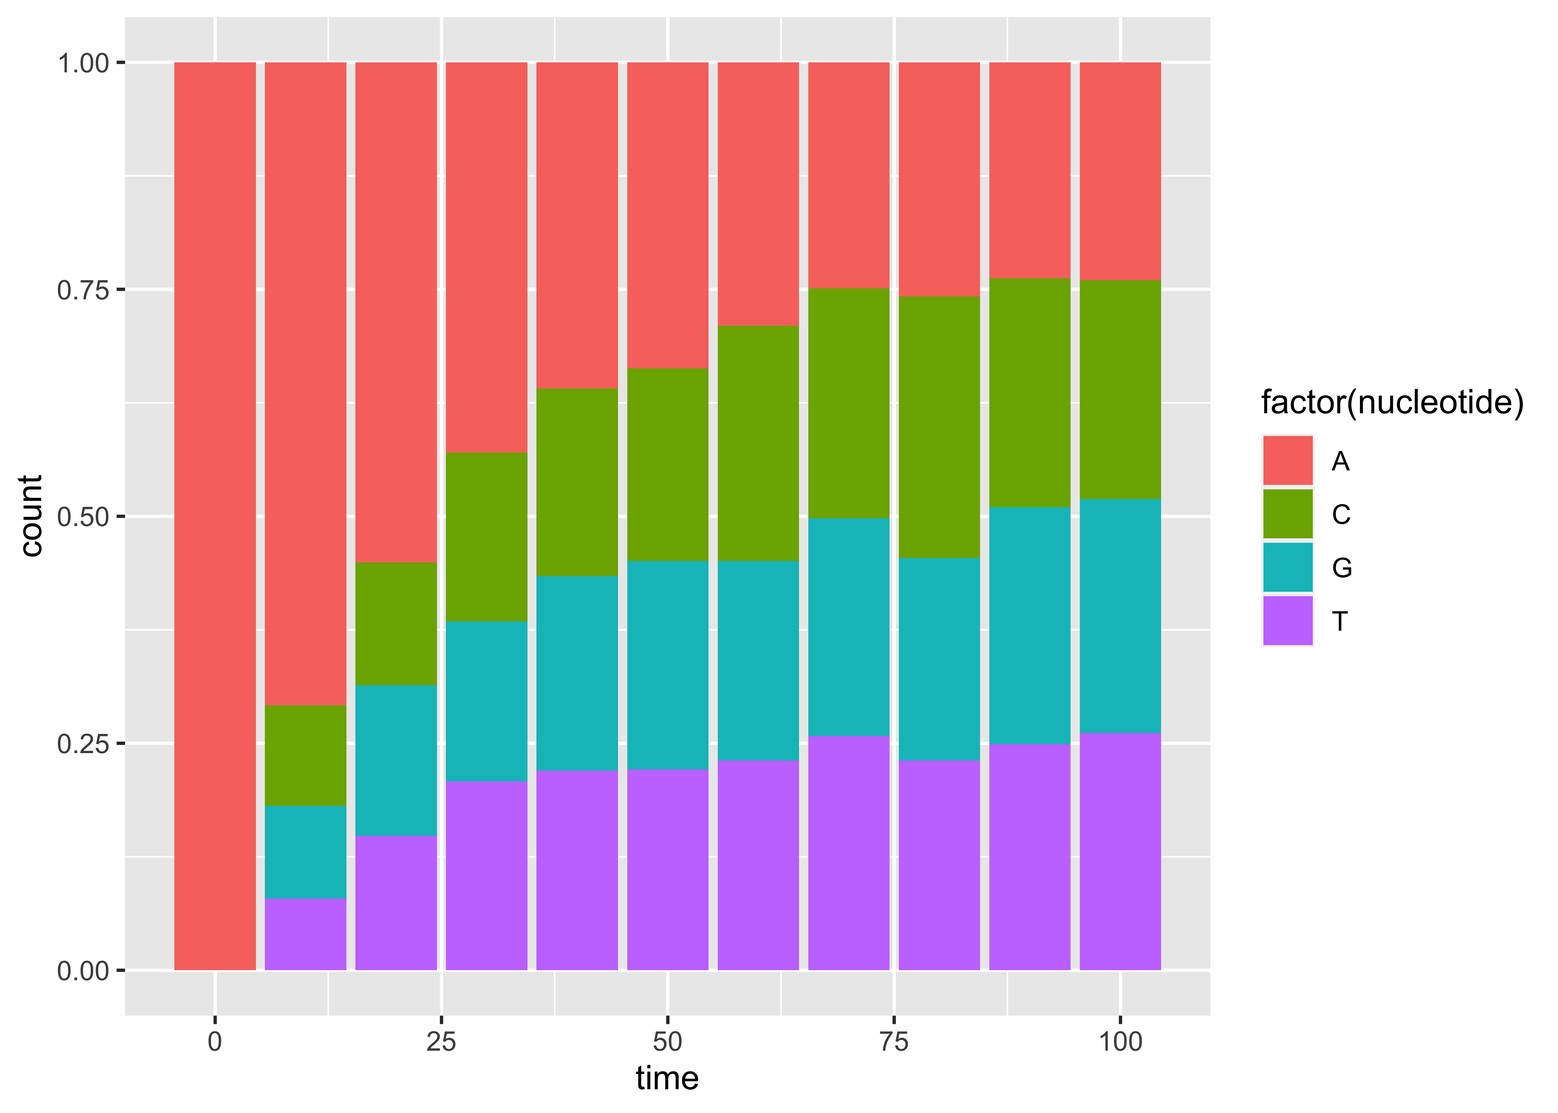
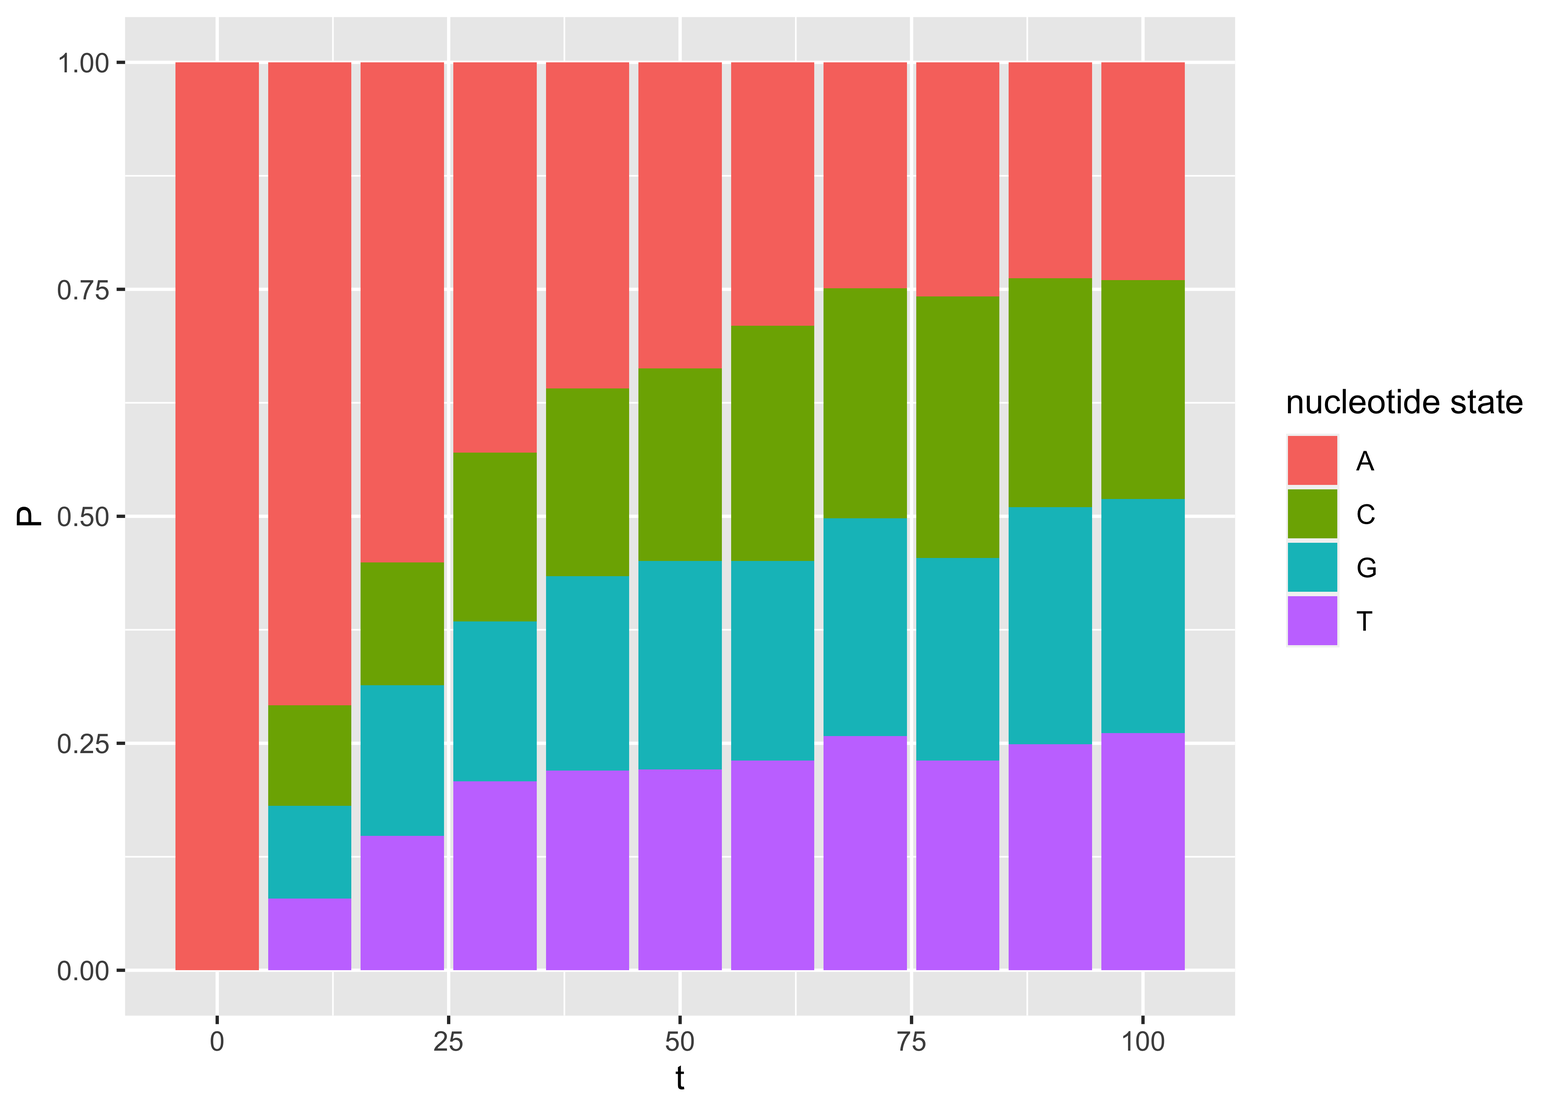
finished pass at simple simulation

diff --git a/docs/simulation.html b/docs/simulation.html
@@ -286,22 +286,22 @@ Figure 3.2: A linear model with <span class="math inline">\(m\)</span>=0.5 and <
 <p>It might seem a bit odd to consider replacement events that don’t result in substitutions, but this follows naturally from a central feature we specified for the the model - the new nucleotide doesn’t depend in any way on what nucleotide was there before. If we had a process where replacements always resulted in substitutions, then excluding the a replacement in kind would require knowing which nucleotide should be placed so that we <em>don’t</em> select it.</p>
 <div id="expected-amount-of-change" class="section level3">
 <h3><span class="header-section-number">3.2.1</span> Expected amount of change</h3>
-<p>One of the primary values of a model is that it allows us to think explicitly about how much evolutionary change we expect to see under the specified process. For the simple process described here, there are two things to consider if we want to know the amount of evolutionary change. The first is the substitution rate <span class="math inline">\(\mu\)</span> (which we also know if we know <span class="math inline">\(\beta\)</span>, since <span class="math inline">\(\mu=4\beta\)</span>), and the time over which the evolutionary process acts.</p>
-<p>In Figure <a href="simulation.html#fig:sim-jc-mu-sweep">3.3</a> the amount of evolutionary time is held constant, and the rate <span class="math inline">\(\mu\)</span> is changed. When <span class="math inline">\(\mu=0\)</span>, the bottom bar, there are no replacements (black bars) and therefore no substitutions (the whole bar is the same color).</p>
+<p>For the simple process described here, there are two things to consider if we want to know the amount of evolutionary change. The first is the substitution rate <span class="math inline">\(\mu\)</span> (which we also know if we know <span class="math inline">\(\beta\)</span>, since <span class="math inline">\(\mu=4\beta\)</span>), and the time over which the evolutionary process acts. In our example here, that time is the length of the edge under consideration in the phylogeny.</p>
+<p>In Figure <a href="simulation.html#fig:sim-jc-mu-sweep">3.3</a> each horizontal bar is a simulation over the same time interval (0-100 time units). Each black line on the bar is a replacement even. We use a different value of <span class="math inline">\(\mu\)</span> for each simulation (as indicated on the vertical axis). When <span class="math inline">\(\mu=0\)</span>, the bottom bar, there are no replacements (black bars) and therefore no substitutions (the whole bar is the same color).</p>
 <div class="figure"><span id="fig:sim-jc-mu-sweep"></span>
-<img src="phylogenetic_biology_files/figure-html/sim-jc-mu-sweep-1.png" alt="Each horizontal bar is a simulation of evolution of a single nucleotide position through time, $t$, for a specified value of $\mu$. Each sumulation starts out as an A. Black vertical bars correspond to replacement events, which don't all lead to substitutions (a new color). " width="2100" />
+<img src="phylogenetic_biology_files/figure-html/sim-jc-mu-sweep-1.png" alt="Each horizontal bar is a simulation of evolution of a single nucleotide position through time, $t$, for a specified value of $\mu$. Each sumulation starts out as an A. Black vertical lines correspond to replacement events, which don't all lead to substitutions (a new color). " width="2100" />
 <p class="caption">
-Figure 3.3: Each horizontal bar is a simulation of evolution of a single nucleotide position through time, <span class="math inline">\(t\)</span>, for a specified value of <span class="math inline">\(\mu\)</span>. Each sumulation starts out as an A. Black vertical bars correspond to replacement events, which don’t all lead to substitutions (a new color).
+Figure 3.3: Each horizontal bar is a simulation of evolution of a single nucleotide position through time, <span class="math inline">\(t\)</span>, for a specified value of <span class="math inline">\(\mu\)</span>. Each sumulation starts out as an A. Black vertical lines correspond to replacement events, which don’t all lead to substitutions (a new color).
 </p>
 </div>
-<p>As <span class="math inline">\(\mu=0\)</span> increases (going up on the <span class="math inline">\(y\)</span> axis), the number of replacement events over the same time interval increases (Figure <a href="simulation.html#fig:sim-jc-mu-n">3.4</a>). This reflects the simple linear relationship <span class="math inline">\(n=\mu t\)</span>, where <span class="math inline">\(n\)</span> is the number of expected replacement events.</p>
+<p>As <span class="math inline">\(\mu\)</span> increases (going up on the vertical axis), the number of replacement events over the same time interval increases (Figure <a href="simulation.html#fig:sim-jc-mu-n">3.4</a>). This reflects the simple linear relationship <span class="math inline">\(n=\mu t\)</span>, where <span class="math inline">\(n\)</span> is the number of expected replacement events.</p>
 <div class="figure"><span id="fig:sim-jc-mu-n"></span>
-<img src="phylogenetic_biology_files/figure-html/sim-jc-mu-n-1.png" alt="The number of replacement events increases linearly with the replacement rate $\mu$. This plot is from the same simulation as that shown in Figure \@ref(fig:sim-jc-mu-sweep). The line is a linear model fit to the data." width="2100" />
+<img src="phylogenetic_biology_files/figure-html/sim-jc-mu-n-1.png" alt="The number of replacement events increases linearly with the replacement rate $\mu$. This plot is from the same simulation as that shown in Figure \@ref(fig:sim-jc-mu-sweep). The line is a linear model fit to the data. Since $n=\mu t$, and in this case $t=100$, the slope of $n$ on $t$ is estimated to be near 100." width="2100" />
 <p class="caption">
-Figure 3.4: The number of replacement events increases linearly with the replacement rate <span class="math inline">\(\mu\)</span>. This plot is from the same simulation as that shown in Figure <a href="simulation.html#fig:sim-jc-mu-sweep">3.3</a>. The line is a linear model fit to the data.
+Figure 3.4: The number of replacement events increases linearly with the replacement rate <span class="math inline">\(\mu\)</span>. This plot is from the same simulation as that shown in Figure <a href="simulation.html#fig:sim-jc-mu-sweep">3.3</a>. The line is a linear model fit to the data. Since <span class="math inline">\(n=\mu t\)</span>, and in this case <span class="math inline">\(t=100\)</span>, the slope of <span class="math inline">\(n\)</span> on <span class="math inline">\(t\)</span> is estimated to be near 100.
 </p>
 </div>
-<p>Because of the linear relationship between the number of replacements and the product <span class="math inline">\(\mu t\)</span>, rate and time are conflated. In many scenarios you can’t estimate them independently. If there are a small number of replacements, for example, you can’t be sure if there is a low rate over a long time interval or a high rate over a short interval. Both would give the same result. Because they are so often confounded in phylogenetic questions, often the rate is essentially fixed at one and the unit of time for edge lengths is given as the number of expected evolutionary change rather than absolute time (years, months, etc). You will often see this length as the scale bar of published phylogenies (Figure <a href="simulation.html#fig:sim-tree-cnid">3.5</a>). The exception is when you have external information, such as dated fossils, that allow you to independently estimate edge lengths and rates.</p>
+<p>Because of the linear relationship between the number of replacements and the product <span class="math inline">\(\mu t\)</span>, rate (<span class="math inline">\(\mu\)</span>) and time (<span class="math inline">\(t\)</span>) are conflated. In many scenarios you can’t estimate them independently. If there are a small number of replacements, for example, you can’t tell if there is a low rate over a long time interval, or a high rate over a short interval. Both would give the same resulting number of changes <span class="math inline">\(n\)</span>. Because they are so often confounded in phylogenetic questions, often the rate is essentially fixed at one and the unit of time for edge lengths is given as the number of expected evolutionary change rather than absolute time (years, months, etc). You will often see this length as the scale bar of published phylogenies (Figure <a href="simulation.html#fig:sim-tree-cnid">3.5</a>). The exception is when you have external information, such as dated fossils, that allow you to independently estimate edge lengths and rates.</p>
 <div class="figure"><span id="fig:sim-tree-cnid"></span>
 <img src="figures/Fig_cnidaria.png" alt="A published phylogeny [@zapata2015] with a scale bar indicating branch length in terms of the expected amount of evolutionary change, rather than absolute time."  />
 <p class="caption">
@@ -311,20 +311,63 @@ Figure 3.5: A published phylogeny <span class="citation">(Zapata et al. <a href=
 </div>
 <div id="expected-end-state" class="section level3">
 <h3><span class="header-section-number">3.2.2</span> Expected end state</h3>
-<p>The machinery above shows how a model can clarify the way we think about the expected amount of change. Many times, though, we want to know what the probability of a given end state is given a starting state, a model, and the amount of time elapsed. One way to anchor such a question is to think about the extremes - what do we expect after a very small amount of change (either a short time or a slow rate of change, or both), and what do we expect after a large amount of change?</p>
-<p>The situation is most clear after a small amount of change - we expect the end result to be the same as the starting condition. If we start with an A, for example, we expect to end with an A (Figure <a href="simulation.html#fig:sim-saturation">3.6</a>, left side). In this situation, if we know the starting state that information tells us a lot about the end state. Not much else matters.</p>
-<p>What should we expect, though, if there has been a large amount of change? Can we know anything at all? It turns out that we can. If there have been many replacements, one after the other, than the initial starting state really doesn’t matter at all because whatever was there will probably have been replaced multiple times. If the starting state doesn’t contain information about the end state, what does? It is the bag that you are picking the nucleotides at random from. Given enough evolutionary time, our simple model will lead the expected frequency of each nucleotide in the evolving sequence to be the same as the frequency in the bag that we randomly draw them from. Since we specified that you have the same chance of grabbing any nucleotide from the bag, eventually the probability of having each of the our nucleotides is the same, 25% (Figure <a href="simulation.html#fig:sim-saturation">3.6</a>, right side). If you started with a sequence that had an A and let it evolve 100 times, after enough evolutionary time had passed to reach equilibrium you would expect to get 25 C’s, 25 G’s, 25 T’s, and 25 A’s.</p>
+<p>The machinery above shows how a model can clarify the way we think about the expected amount of change along an edge. Many times, though, we want to know what the probability of a given end state is given a starting state, a model, and the amount of time elapsed. One way to anchor such a question is to think about the extremes - what do we expect after a very small amount of change (either a short time or a slow rate of change, or both), and what do we expect after a large amount of change?</p>
+<p>The situation is most clear after a small amount of change - we expect the end result to be the same as the starting condition. If we start with an A, for example, if ther eis very little change we expect to end with an A (Figure <a href="simulation.html#fig:sim-saturation">3.6</a>, left side). In this situation, if we know the starting state that information tells us a lot about the end state. Not much else matters.</p>
+<p>What should we expect, though, if there has been a large amount of change? Can we know anything at all? It turns out that we can. If there have been many replacements, one after the other, than the initial starting state doesn’t matter because whatever was there initially will probably have been replaced multiple times. If the starting state doesn’t contain information about the end state, what does?</p>
+<p>Since replacements are coming from the bag that you are picking the nucleotides at random from, that bag has information about the expected states after a large number of changes. Given enough evolutionary time, our simple model will lead the expected frequency of each nucleotide in the evolving sequence to be the same as the frequency in the bag. Since we specified that you have the same chance of grabbing any nucleotide from the bag, eventually the probability of having each of the our nucleotides is the same, 25% (Figure <a href="simulation.html#fig:sim-saturation">3.6</a>, right side). If you started with a sequence that had an A and let it evolve 100 times, after enough evolutionary time had passed to reach equilibrium you would expect to get 25 C’s, 25 G’s, 25 T’s, and 25 A’s.</p>
 <div class="figure"><span id="fig:sim-saturation"></span>
-<img src="phylogenetic_biology_files/figure-html/sim-saturation-1.png" alt="Stacked bar plots indicating the frequency of each nucleotide after evolution for a specified amount of time. The rate of evolution is $\mu= 0.05 $. There are  1000  replicate simulations for each value of time. At time=0 (no evolution), the end result is always the same as the initial value, which is fixed at A in these simulations. As the length of time increases, the four nucleotides converge on equal frequencies of 25% each." width="2100" />
+<img src="phylogenetic_biology_files/figure-html/sim-saturation-1.png" alt="Stacked bar plots indicating the frequency of each nucleotide after evolution for a specified amount of time. The rate of evolution is $\mu= 0.05 $. There are  1000  replicate simulations for each value of time. At time=0 (no evolution), the end result is always the same as the initial value, which is fixed at A in these simulations. As the length of time increases, the four nucleotides converge on equal proportions of 0.25 each." width="2100" />
 <p class="caption">
-Figure 3.6: Stacked bar plots indicating the frequency of each nucleotide after evolution for a specified amount of time. The rate of evolution is $= 0.05 $. There are 1000 replicate simulations for each value of time. At time=0 (no evolution), the end result is always the same as the initial value, which is fixed at A in these simulations. As the length of time increases, the four nucleotides converge on equal frequencies of 25% each.
+Figure 3.6: Stacked bar plots indicating the frequency of each nucleotide after evolution for a specified amount of time. The rate of evolution is $= 0.05 $. There are 1000 replicate simulations for each value of time. At time=0 (no evolution), the end result is always the same as the initial value, which is fixed at A in these simulations. As the length of time increases, the four nucleotides converge on equal proportions of 0.25 each.
 </p>
 </div>
 </div>
 <div id="analytical-approach" class="section level3">
 <h3><span class="header-section-number">3.2.3</span> Analytical approach</h3>
-<p>We are going to use exponential functions in a couple weeks, so let’s have a refresher here.</p>
-<p><img src="phylogenetic_biology_files/figure-html/unnamed-chunk-3-1.png" width="2100" /></p>
+<p>The process of change that our simple model describes is similar to compound interest.
+We have something in hand, apply a process to it, then take the output and apply that same process again. Over and over.
+In the case of compound interest, that something is money and the process is growth. In the case of our model, the
+something is a DNA site and the process is mutation. In both cases, we take is inputs a starting state, a rate of change, and an amount of time, and provide as an output get the expected end state. To get the expected end state as a function of time elapsed, given a rate of change, we can use exponential functions.</p>
+<p>For our model, we need two exponential functions:</p>
+<p><span class="math display" id="eq:sim-stay">\[\begin{equation} 
+  P\left(t\right) = \frac{1}{4} + \frac{3}{4} e^{-\mu t} 
+  \tag{3.2}
+\end{equation}\]</span></p>
+<p><span class="math display" id="eq:sim-change">\[\begin{equation} 
+  P\left(t\right) = \frac{1}{4} - \frac{1}{4} e^{-\mu t} 
+  \tag{3.3}
+\end{equation}\]</span></p>
+<p>Equation <a href="simulation.html#eq:sim-stay">(3.2)</a> shows the probability of the final state being the same as
+the beginning state. So if you start with an A, this would give you the probability
+of remaining an A after time <span class="math inline">\(t\)</span> given a specific value of <span class="math inline">\(mu\)</span>. Equation <a href="simulation.html#eq:sim-change">(3.3)</a> is the probability of each of the different end states. If you start as an A, this is the probability of changing to a G. It is also the probability of changing to a C or a T.</p>
+<p>Consider what happens to these equations in the extremes we noted above. If <span class="math inline">\(\mu\)</span> or <span class="math inline">\(t\)</span> are zero, we expect no change (Figure <a href="simulation.html#fig:sim-analytical">3.7</a>, left side). In that case we get <span class="math inline">\(e^0\)</span>, which is 1. Equation <a href="simulation.html#eq:sim-stay">(3.2)</a> becomes <span class="math inline">\(1/4 + 3/4\)</span>, which is 1. So there is a probability of 1 that, after no change, the end state is the same as the beginning state. Likewise, equation <a href="simulation.html#eq:sim-change">(3.3)</a> becomes <span class="math inline">\(1/4 - 1/4\)</span>, which is 0. So after no change the end states that differ from the beginning state each have probability 0.</p>
+<p>Now consider the case after infinite change (or just a large amount of change, as in the right side of Figure <a href="simulation.html#fig:sim-analytical">3.7</a>). If <span class="math inline">\(\mu\)</span> or <span class="math inline">\(t\)</span> are infinity, then <code>e^{-\mu t}</code> becomes <code>e^{-\infty}</code>, which is 0. In that case, Equation <a href="simulation.html#eq:sim-stay">(3.2)</a> becomes <span class="math inline">\(1/4 + 0\)</span>, which is simply <span class="math inline">\(1/4\)</span>. Likewise, Equation <a href="simulation.html#eq:sim-change">(3.3)</a> becomes <span class="math inline">\(1/4 - 0\)</span>, which is also <span class="math inline">\(1/4\)</span>. So all the nucleotides (the one that you started with, and the three other states that substitution can lead to) all have the same equal frequency of <span class="math inline">\(1/4\)</span>. This reflects the fact that the frequency of drawing each of these from the bag was <span class="math inline">\(1/4\)</span>.</p>
+<div class="figure"><span id="fig:sim-analytical"></span>
+<img src="phylogenetic_biology_files/figure-html/sim-analytical-1.png" alt="The probability of observing a particular end state, given the start state and $\mu=0.05$, at time $t$. The red line is the probability of observing the original start state (as described by \@ref(eq:sim-stay)), the blue line is the probability of observing each of the three other states (as described by \@ref(eq:sim-change))." width="2100" />
+<p class="caption">
+Figure 3.7: The probability of observing a particular end state, given the start state and <span class="math inline">\(\mu=0.05\)</span>, at time <span class="math inline">\(t\)</span>. The red line is the probability of observing the original start state (as described by <a href="simulation.html#eq:sim-stay">(3.2)</a>), the blue line is the probability of observing each of the three other states (as described by <a href="simulation.html#eq:sim-change">(3.3)</a>).
+</p>
+</div>
+<p>We can reorganize things a bit to get a plot like that of Figure <a href="simulation.html#fig:sim-saturation">3.6</a>, but derived from Equation <a href="simulation.html#eq:sim-change">(3.3)</a> and <a href="simulation.html#eq:sim-change">(3.3)</a> instead.</p>
+<div class="figure"><span id="fig:sim-sat-analytical"></span>
+<img src="phylogenetic_biology_files/figure-html/sim-sat-analytical-1.png" alt="Stacked bar plots indicating the frequency of each nucleotide after evolution for a specified amount of time. The rate of evolution is $\mu= 0.05 $. The starting state is set at A, so the probability of observing an A is described by Equation \@ref(eq:sim-stay). The other three nucleotides, C, G, and T, are described by Equation \@ref(eq:sim-change). At time=0 (no evolution), the probability that the state is the same as at the start is 1.0. As the length of time increases, the four nucleotides converge on equal probability of 0.25 each." width="2100" />
+<p class="caption">
+Figure 3.8: Stacked bar plots indicating the frequency of each nucleotide after evolution for a specified amount of time. The rate of evolution is $= 0.05 $. The starting state is set at A, so the probability of observing an A is described by Equation <a href="simulation.html#eq:sim-stay">(3.2)</a>. The other three nucleotides, C, G, and T, are described by Equation <a href="simulation.html#eq:sim-change">(3.3)</a>. At time=0 (no evolution), the probability that the state is the same as at the start is 1.0. As the length of time increases, the four nucleotides converge on equal probability of 0.25 each.
+</p>
+</div>
+<p>Let’s put this back into a biological context. Our simple model allows us to
+calculate the probability <code>P(t)</code> of a given nucleotide state at the end (child node) of an edge given:</p>
+<ul>
+<li>The nucleotide state at the beginning (parent node) of the edge</li>
+<li>Replacement rate <span class="math inline">\(\mu\)</span></li>
+<li>Length of the edge</li>
+</ul>
+<p>This is powerful stuff. We could do a variety of things with this model machinery, for example:</p>
+<ul>
+<li>Simulate evolution along the edge by sampling nucleotides for the child node from this probability distribution</li>
+<li>Ask the probability of starting state given the end state</li>
+<li>Evaluate how reasonable our <span class="math inline">\(\mu\)</span> model parameter value is. If, for example, we had a very short branch that had a different state at the beginning and end, we might be skeptical of a low <span class="math inline">\(\mu\)</span> value.</li>
+</ul>
 </div>
 </div>
 <div id="generalizing-the-simple-model" class="section level2">

diff --git a/docs/index.html b/docs/index.html
@@ -222,7 +222,7 @@ code span.wa { color: #60a0b0; font-weight: bold; font-style: italic; } /* Warni
 </div>
 <div id="software-versions" class="section level2">
 <h2><span class="header-section-number">0.2</span> Software versions</h2>
-<p>This book was rendered from the source code on Wed Sep 02 14:58:08 2020 with the following R package versions.</p>
+<p>This book was rendered from the source code on Wed Sep 02 22:50:43 2020 with the following R package versions.</p>
 <pre><code>R version 4.0.2 (2020-06-22)
 Platform: x86_64-apple-darwin17.0 (64-bit)
 Running under: macOS Catalina 10.15.6
